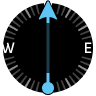
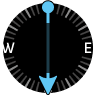
fix wind and sun widgets

Changed region(s): [[0.4062, 0.7812, 0.5938, 1.0], [0.4062, 0.0, 0.5938, 0.2188]]

diff --git a/modular/watchface/index.js b/modular/watchface/index.js
@@ -28,8 +28,7 @@ import {
   WIDGET_ACTIVE_ARC_PROPS,
   WIDGET_BACKGROUND_ARC_PROPS,
   WIDGET_BACKGROUND_CIRCLE_PROPS,
-  WIDGET_DOT_BACKGROUND_PROPS,
-  WIDGET_DOT_PROPS,
+  WIDGET_DOT_IMAGE_PROPS,
   WIDGET_TEXT_L_PROPS,
   WIDGET_TEXT_S_PROPS,
   WIDGET_TEXT_XS_PROPS,
@@ -394,22 +393,6 @@ WatchFace({
       end_angle: 0,
     };
 
-    const dotArcProps = {
-      ...WIDGET_DOT_PROPS,
-      center_x: centerX,
-      center_y: centerY,
-      start_angle: 0,
-      end_angle: 0,
-    };
-
-    const dotBackgroundProps = {
-      ...WIDGET_DOT_BACKGROUND_PROPS,
-      center_x: centerX,
-      center_y: centerY,
-      start_angle: 0,
-      end_angle: 0,
-    };
-
     hmUI.createWidget(hmUI.widget.ARC_PROGRESS, {
       ...WIDGET_BACKGROUND_ARC_PROPS,
       center_x: centerX,
@@ -418,14 +401,21 @@ WatchFace({
 
     const dayArc = hmUI.createWidget(hmUI.widget.ARC_PROGRESS, dayArcProps);
 
-    const dotBackgroundArcWidget = hmUI.createWidget(
-      hmUI.widget.ARC_PROGRESS,
-      dotBackgroundProps,
-    );
-    const dotArcWidget = hmUI.createWidget(
-      hmUI.widget.ARC_PROGRESS,
-      dotArcProps,
-    );
+    const DOT_SIZE = px(14);
+    const DOT_OVERSIZE = px(2);
+    const dotAreaSize = w + 2 * DOT_OVERSIZE;
+
+    const dotImageWidget = hmUI.createWidget(hmUI.widget.IMG, {
+      ...WIDGET_DOT_IMAGE_PROPS,
+      x: x - DOT_OVERSIZE,
+      y: y - DOT_OVERSIZE,
+      w: dotAreaSize,
+      h: dotAreaSize,
+      pos_x: dotAreaSize / 2 - DOT_SIZE / 2,
+      pox_y: dotAreaSize / 2 - DOT_SIZE / 2,
+      center_x: dotAreaSize / 2,
+      center_y: dotAreaSize / 2,
+    });
 
     const iconWidget = hmUI.createWidget(hmUI.widget.IMG, {
       ...SUN_ICON_IMAGE_PROPS,
@@ -473,21 +463,8 @@ WatchFace({
     };
 
     const updateDotPosition = () => {
-      const DOT_ANGLE_GAP = 1;
-      const DOT_BACKGROUND_ANGLE_GAP = 1;
       const angle = getSunPosition(weatherSensor, timeSensor) * 360 - 180;
-
-      dotArcWidget.setProperty(hmUI.prop.MORE, {
-        ...dotArcProps,
-        start_angle: angle - DOT_ANGLE_GAP,
-        end_angle: angle + DOT_ANGLE_GAP,
-      });
-
-      dotBackgroundArcWidget.setProperty(hmUI.prop.MORE, {
-        ...dotBackgroundProps,
-        start_angle: angle - DOT_BACKGROUND_ANGLE_GAP,
-        end_angle: angle + DOT_BACKGROUND_ANGLE_GAP,
-      });
+      dotImageWidget.setProperty(hmUI.prop.ANGLE, angle);
     };
 
     const update = () => {

diff --git a/modular/watchface/index.r.layout.js b/modular/watchface/index.r.layout.js
@@ -162,23 +162,18 @@ export const WIDGET_TEXT_XS_PROPS = {
   text_size: FONT_SIZE.widgetXs,
 };
 
-export const WIDGET_DOT_PROPS = {
+export const WIDGET_DOT_IMAGE_PROPS = {
+  x: 0,
+  y: 0,
+  w: 0,
+  h: 0,
+  pos_x: 0,
+  pox_y: 0,
   center_x: 0,
   center_y: 0,
-  radius: px(40),
-  start_angle: 0,
-  end_angle: 0,
-  color: COLORS.primary,
-  line_width: px(10),
-  level: 100,
-  corner_flag: 0,
+  angle: 0,
+  src: 'widget/dot.png',
   show_level: hmUI.show_level.ONLY_NORMAL,
-};
-
-export const WIDGET_DOT_BACKGROUND_PROPS = {
-  ...WIDGET_DOT_PROPS,
-  line_width: px(14),
-  color: 0x000000,
 };
 
 export const SUN_ICON_IMAGE_PROPS = {
